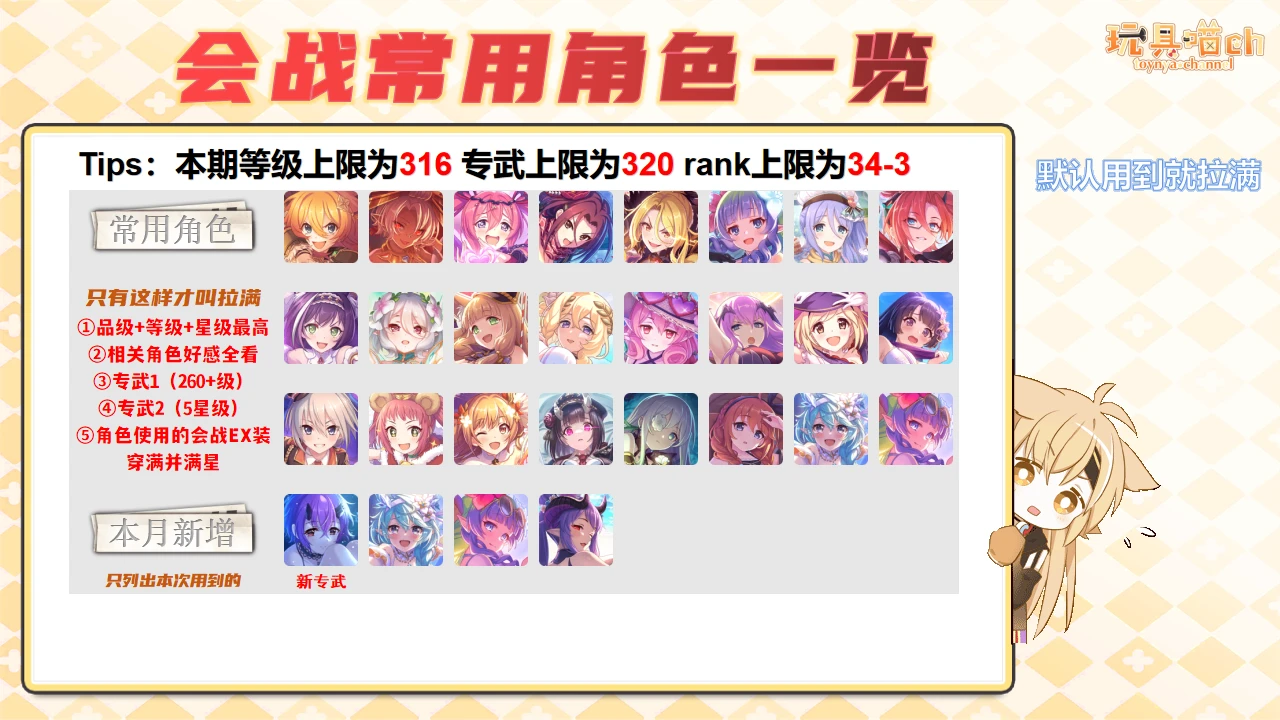
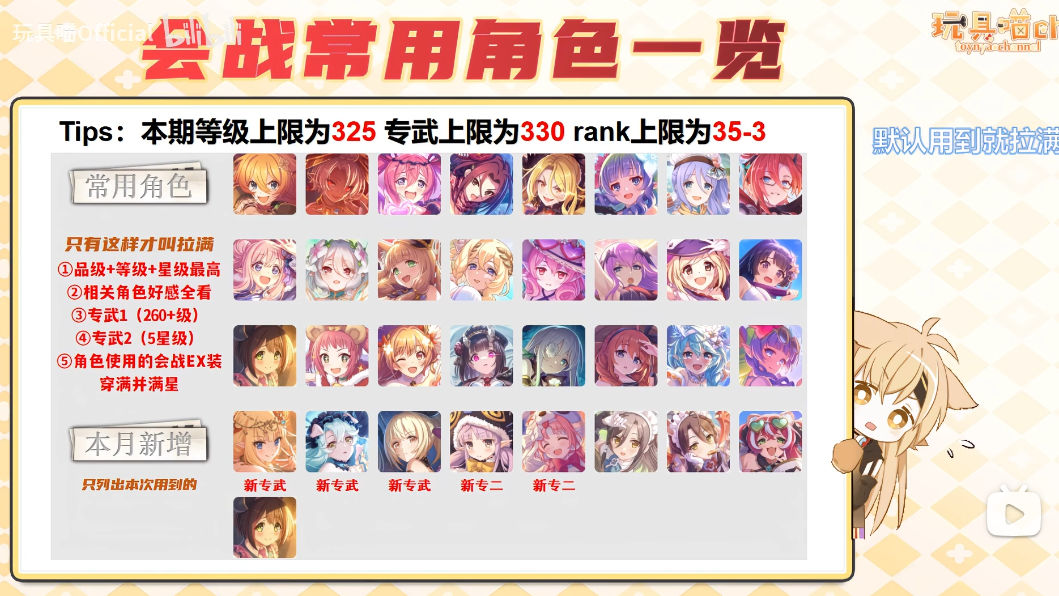
26-2-22-2月工会战

diff --git a/ghz-config.js b/ghz-config.js
@@ -10,48 +10,42 @@ const GHZconfigData = {
   ],
   "activeTab": 0,
   "d1Images": [
-    "./工会战/d1/0e0a1883152f71bb8f5f11a70e32fb31189151967.jpg",
-    "./工会战/d1/73e0242a94b27338342d6f5e05e74e24189151967.jpg",
-    "./工会战/d1/f23ff61c652f3a061d9d5199a6da0778189151967.jpg"
+    "./工会战/d1/2d36ce6e91d46844f7d610ba393556b1189151967.png",
+    "./工会战/d1/3ac0fbdf92715236023a4846e09953a1189151967.jpg",
+    "./工会战/d1/3f52ea822abc8e607cda5bc9d05be235189151967.jpg",
+    "./工会战/d1/8d9708e94815a24739477d63ea6f0839189151967.png",
+    "./工会战/d1/f454f0b30b84cf5562249d4a6d3f1124189151967.png"
   ],
   "d2Images": [
-    "./工会战/d2/9d41fab0cf6b8055c97f46e1764f02b8189151967.jpg",
-    "./工会战/d2/af1c7ebd375ccc8693a0706463c1dca1189151967.jpg",
-    "./工会战/d2/dcebf9f2619d724345c424ba2141ea36189151967.jpg"
+    "./工会战/d2/4f038e820c07cd7f5b08de634a975fd0189151967.jpg"
   ],
   "d3Images": [
-    "./工会战/d3/796fae6297a6e4322831aee07dd77cef189151967.jpg",
-    "./工会战/d3/933b7ae7151f97c0adfaf4e052b0fcfb189151967.jpg",
-    "./工会战/d3/99338d570a5fca06d64fae177e27e1b5189151967.jpg",
-    "./工会战/d3/c1d0eec715c3948ed8f2e9b55ed1d480189151967.png",
-    "./工会战/d3/c7c4ac233b27b816370c25cce5710165189151967.jpg"
+    "./工会战/d3/61edb410b00e7c537e3cc2dd970846fc189151967.png",
+    "./工会战/d3/893fe6421053293145e0bc93abb8d7ab189151967.png"
   ],
   "d4Images": [
-    "./工会战/d4/26d2b50086c544589fd07db980988a11189151967.jpg",
-    "./工会战/d4/3ae905e2c5b8f9149ac604a9f9cb47a1189151967.jpg",
-    "./工会战/d4/64a561a1ce2482d6239197b8c98dc7ca189151967.png",
-    "./工会战/d4/884ee1849155d6689f03da8dd972c0aa189151967.jpg",
-    "./工会战/d4/efefd30dff5d85e044360e135eb6844c189151967.jpg"
+    "./工会战/d4/dee8497d9dccd10d6d0de9b65ed9793e189151967.jpg"
   ],
   "d5Images": [
-    "./工会战/d5/3934f9400774625ddb62a4336db4e95e189151967.jpg",
-    "./工会战/d5/7460b82779bced5db285a0eda169de15189151967.jpg",
-    "./工会战/d5/8d0b5bd645a7d95341ec2deb37b3f25d189151967.png"
+    "./工会战/d5/8b4c2251fed8c17efd7a61eeeee6b807189151967.png"
   ],
   "d6Images": [
     "./工会战/set刀/m1.png",
     "./工会战/set刀/m2.png",
     "./工会战/set刀/m3.png",
     "./工会战/set刀/md1.png",
+    "./工会战/set刀/md10.png",
+    "./工会战/set刀/md11.png",
     "./工会战/set刀/md2.png",
     "./工会战/set刀/md3.png",
     "./工会战/set刀/md4.png",
     "./工会战/set刀/md5.png",
     "./工会战/set刀/md6.png",
     "./工会战/set刀/md7.png",
-    "./工会战/set刀/mxd1.png",
-    "./工会战/set刀/mxd2.png",
-    "./工会战/set刀/mxd3.png"
+    "./工会战/set刀/md8.png",
+    "./工会战/set刀/md9.png",
+    "./工会战/set刀/mx.png",
+    "./工会战/set刀/mx1.png"
   ],
   "showBigImg": false,
   "bigImgSrc": ""
